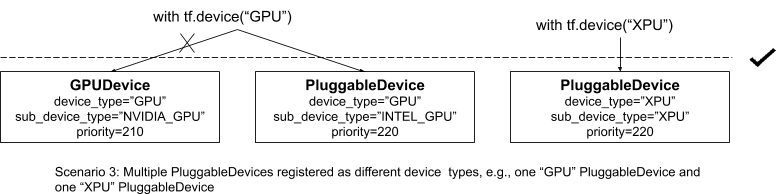
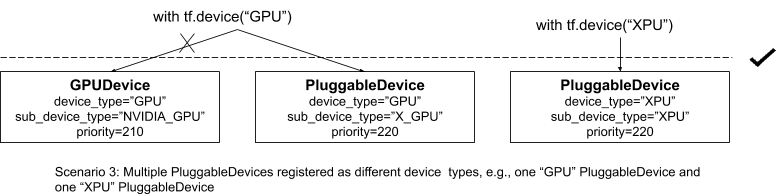
front-end mirroring -> device mapping

Changed region(s): [[0.3402, 0.5567, 0.5876, 0.6495]]

diff --git a/rfcs/20200624-pluggable-device-for-tensorflow.md b/rfcs/20200624-pluggable-device-for-tensorflow.md
@@ -50,7 +50,7 @@ With the RFC, existing TensorFlow GPU programs can run on a plugged device witho
 
 This section describes the user scenarios that are supported/unsupported for PluggableDevice.  
 * **Supported scenario**: Single PluggableDevice registered as "GPU" device type  
-  In the case of installing one plugin that registers its PluggableDevice as "GPU" device type, the default GPUDevice will be invalid when the plugin is loaded. When user specifies the "GPU" device for ops under `with tf.device("gpu:0")`, PluggableDevice registered will be selected to run those ops.
+  In the case of installing one plugin that registers its PluggableDevice as "GPU" device type, the default GPUDevice will be overrided by PluggableDevice when the plugin is loaded. When user specifies the "GPU" device for ops under `with tf.device("gpu:0")`, PluggableDevice registered will be selected to run those ops.
 <div align="center">
 <img src=20200624-pluggable-device-for-tensorflow/scenario1.png>
 </div>  
@@ -68,43 +68,49 @@ This section describes the user scenarios that are supported/unsupported for Plu
 </div>
 
 * **Non-Supported scenario**: Multiple PluggableDevices registered as the same device type.  
-  In the case of installing multiple plugins that registers PluggableDevice as the same device type, e.g., more than one plugin registers its PluggableDevice as "GPU" device type, these plugins's initialization will fail due to registration conflict. User needs to manually select which platform they want to use(either unloads the conflicting plugin or reconfigures the plugin with python API).
+  In the case of installing multiple plugins that registers PluggableDevice as the same device type, e.g., more than one plugin registers its PluggableDevice as "GPU" device type, these plugins's initialization will fail due to registration conflict. Users need to manually select which platform they want to use(either unloads the conflicting plugin or reconfigures the plugin with python API).
 <div align="center">
 <img src=20200624-pluggable-device-for-tensorflow/scenario4.png>
 </div>
 
-### Front-end Mirroring mechanism
-This section describes the front-end mirroring mechanism for python users, pointing at previous user scenarios.
+### Device mapping mechanism
+This section describes the device mapping mechanism for python users, pointing at previous user scenarios.
 * **Device type && Subdevice type**  
-   Device type is user visible. User can specify the device type for the ops. e.g, "gpu", "xpu", "cpu". Subdevice type is user visible and user can specify which subdevice to use for the device type(mirroring), e.g.("NVIDIA_GPU", "INTEL_GPU", "AMD_GPU").
+   Device type is user visible. User can specify the device type for the ops. e.g, "gpu", "xpu", "cpu". Subdevice type is user visible and user can specify which subdevice to use for the device type(device mapping), e.g.("NVIDIA_GPU", "INTEL_GPU", "AMD_GPU").
    ```
    >> with tf.device("/gpu:0"):
       ...
    >> with tf.device("/xpu:0"):
       ...
    ```
-* **Front-end mirroring** 
-   In the case of two GPUs in the same system, e.g. NVIDIA GPU + INTEL GPU and installing the Intel GPU plugin.
-  * **Option 1**
-    Only plugged gpu device is visible, PluggableDevice(INTEL GPU) overrides the default GPUDevice(NVIDIA GPU). If user want to use NVIDIA GPU, he needs to manually uninstall the plugin.
+* **Device mapping**   
+   In the case of two GPUs in the same system, e.g. NVIDIA GPU + X GPU and installing the X GPU plugin.
+  * **Option 1**: override CUDA device, only plugged gpu device visible  
+    Only plugged gpu device is visible, PluggableDevice(X GPU) overrides the default GPUDevice(CUDA GPU). If users want to use CUDA GPU, they need to manually uninstall the plugin.
     ```
     >> gpu_device = tf.config.experimental.list_physical_devices(`GPU`)
     >> print(gpu_device)
-    [PhysicalDevice(name = `physical_device:GPU:0`), device_type = `GPU`, subdevice_type = `INTEL_GPU`]
+    [PhysicalDevice(name = `physical_device:GPU:0`), device_type = `GPU`, subdevice_type = `X_GPU`]
     >> with tf.device("/gpu:0"):
-    >>   .. // place ops on PluggableDevice(Intel GPU)
+    >>   .. // place ops on PluggableDevice(X GPU)
     ```
-  * **Option 2**
-    Both plugged gpu device and default gpu device are visible, but only one gpu can work at the same time, plugged gpu device is default enabled, if user want to use NVIDIA GPU, he need to call mirroring API(set_sub_device_mapping()) to switch to NVIDIA gpu device.
-   ```
+  * **Option 2**: both visible, but plugged gpu is default, user can set the device mapping  
+    Both plugged gpu device and default gpu device are visible, but only one gpu can work at the same time, plugged gpu device is default enabled(with higher priority), if users want to use NVIDIA GPU, they need to call device mapping API(set_sub_device_mapping()) to switch to CUDA device.
+    ```
     >> gpu_device = tf.config.experimental.list_physical_devices(`GPU`)
     >> print(gpu_device)
-    [PhysicalDevice(name = `physical_device:GPU:0`), device_type = `GPU`, subdevice_type = `INTEL_GPU`, enabled]
-    [PhysicalDevice(name = `physical_device:GPU:0`), device_type = `GPU`, subdevice_type = `NVIDIA_GPU`, not-enabled]
+    [PhysicalDevice(name = `physical_device:GPU:0`), device_type = `GPU`, subdevice_type = `X_GPU`, enabled]
+    [PhysicalDevice(name = `physical_device:GPU:0`), device_type = `GPU`, subdevice_type = `NVIDIA_GPU`, disabled]
+ 
     >> tf.config.set_subdevice_mapping("NVIDIA_GPU")
+    >> gpu_device = tf.config.experimental.list_physical_devices(`GPU`)
+    >> print(gpu_device)
+    [PhysicalDevice(name = `physical_device:GPU:0`), device_type = `GPU`, subdevice_type = `X_GPU`, disabled]
+    [PhysicalDevice(name = `physical_device:GPU:0`), device_type = `GPU`, subdevice_type = `NVIDIA_GPU`, enabled]
+    
     >> with tf.device("/gpu:0"):
     >>   .. // place ops on GPUDevice(NVIDIA GPU)
-   ```
+    ```
 * **Physical device name**  
    physical device name is user visible. User can query the physical device name(e.g. "Titan V") for the specified device instance through [tf.config.experimental.get_device_details()](https://www.tensorflow.org/api_docs/python/tf/config/experimental/get_device_details).
    ```
@@ -114,18 +120,17 @@ This section describes the front-end mirroring mechanism for python users, point
    >>    print(details.get(`device_name`)) 
    "TITAN_V, XXX"     
    ```
-
 ### Device Discovery
 
 Upon initialization of TensorFlow, it uses platform independent `LoadLibrary()` to load the dynamic library. The plugin library should be installed to the default plugin directory "…python_dir.../site-packages/tensorflow-plugins". The modular tensorflow [RFC](https://github.com/tensorflow/community/pull/77) describes the process of loading plugins. 
 
-During the plugin library initialization, TensorFlow proper calls the `SE_InitializePlugin` API (part of StreamExecutor C API) to retrieve nescessary informations from the plugin to instantiate a StreamExecutor platform([se::platform](https://github.com/tensorflow/tensorflow/blob/cb32cf0f0160d1f582787119d0480de3ba8b9b53/tensorflow/stream_executor/platform.h#L93) class) and registers the platform to a global object [se::MultiPlatformManager](https://github.com/tensorflow/tensorflow/blob/cb32cf0f0160d1f582787119d0480de3ba8b9b53/tensorflow/stream_executor/multi_platform_manager.h#L82), TensorFlow proper gets a device type and a subdevice type from plugin through `SE_InitializePlugin` and then registers the `PluggableDeviceFactory`with the registered device type. The device type string will be used to access PluggableDevice with tf.device() in python layer. The subdevice type is used for low-level specialization of GPU device(kernel, StreamExecutor, common runtime, grapper, placer..). If the user cares whether he is running on Intel/NVIDIA GPU, he can call python API (such as `tf.config.list_physical_devices`) to get the subdevice type for identification. user can also use `tf.config.get_device_details` to get the real device name(e.g. "TITAN V")for the specified device.  
+During the plugin library initialization, TensorFlow proper calls the `SE_InitializePlugin` API (part of StreamExecutor C API) to retrieve nescessary informations from the plugin to instantiate a StreamExecutor platform([se::platform](https://github.com/tensorflow/tensorflow/blob/cb32cf0f0160d1f582787119d0480de3ba8b9b53/tensorflow/stream_executor/platform.h#L93) class) and registers the platform to a global object [se::MultiPlatformManager](https://github.com/tensorflow/tensorflow/blob/cb32cf0f0160d1f582787119d0480de3ba8b9b53/tensorflow/stream_executor/multi_platform_manager.h#L82), TensorFlow proper gets a device type and a subdevice type from plugin through `SE_InitializePlugin` and then registers the `PluggableDeviceFactory`with the registered device type. The device type string will be used to access PluggableDevice with tf.device() in python layer. The subdevice type is used for low-level specialization of GPU device(kernel, StreamExecutor, common runtime, grapper, placer..). If the users care whether they are running on NVIDIA GPU or X GPU(Intel GPU, Amd GPU..), they can call python API (such as `tf.config.list_physical_devices`) to get the subdevice type for identification. user can also use `tf.config.get_device_details` to get the real device name(e.g. "TITAN V")for the specified device.  
 Plugin authors need to implement `SE_InitializePlugin` and provide the necessary informations:  
 ```cpp
 void SE_InitializePlugin(SE_PlatformRegistrationParams* params, TF_Status* status) {
   int32_t visible_device_count = get_plugin_device_count();
   
-  std::string name = "My_GPU"; //StreamExecutor platform name && subdevice type
+  std::string name = "X_GPU"; //StreamExecutor platform name && subdevice type
   std::string type = "GPU"; // device type
 
   params.params.id = plugin_id_value;
@@ -277,20 +282,20 @@ Plugin authors need to provide those C functions implementation defined in Strea
 ### PluggableDevice kernel registration
 
 This section shows an example of kernel registration for PluggableDevice. Kernel registration and implementation API is addressed in a separate [RFC](https://github.com/tensorflow/community/blob/master/rfcs/20190814-kernel-and-op-registration.md). 
-To avoid kernel registration conflict with existing GPU(CUDA) kernels, plugin author needs to provide a device type(such as "GPU") as well as a subdevice type(such as "INTEL_GPU") to TensorFlow proper for kernel registration and dispatch. The device type indicates the device the kernel runs on, the subdevice type is for low-level specialization of the device.
+To avoid kernel registration conflict with existing GPU(CUDA) kernels, plugin author needs to provide a device type(such as "GPU") as well as a subdevice type(such as "X_GPU") to TensorFlow proper for kernel registration and dispatch. The device type indicates the device the kernel runs on, the subdevice type is for low-level specialization of the device.
 ```cpp
 void SE_InitializePlugin(SE_PlatformRegistrationParams* params, TF_Status* status) {
   ...
   std::string type = "GPU" // front-end visible device type
   params.params.type = type.c_str();
-  std::string name = "INTEL_GPU"; // low-level specialization device type
+  std::string name = "X_GPU"; // low-level specialization device type
   params.params.type = name.c_str();
   ...
 }
 
 void InitKernelPlugin() {
   TF_KernelBuilder* builder = TF_NewKernelBuilder(/*op_name*/"Convolution", "GPU", //"GPU" is device type
-      "INTEL_GPU", &Conv_Create, &Conv_Compute, &Conv_Delete); // "INTEL_GPU" is sub device type
+      "X_GPU", &Conv_Create, &Conv_Compute, &Conv_Delete); // "X_GPU" is sub device type
   TF_Status* status = TF_NewStatus();
   TF_RegisterKernelBuilder(/*kernel_name*/"Convolution", builder, status);
   if (TF_GetCode(status) != TF_OK) { /* handle errors */ }
